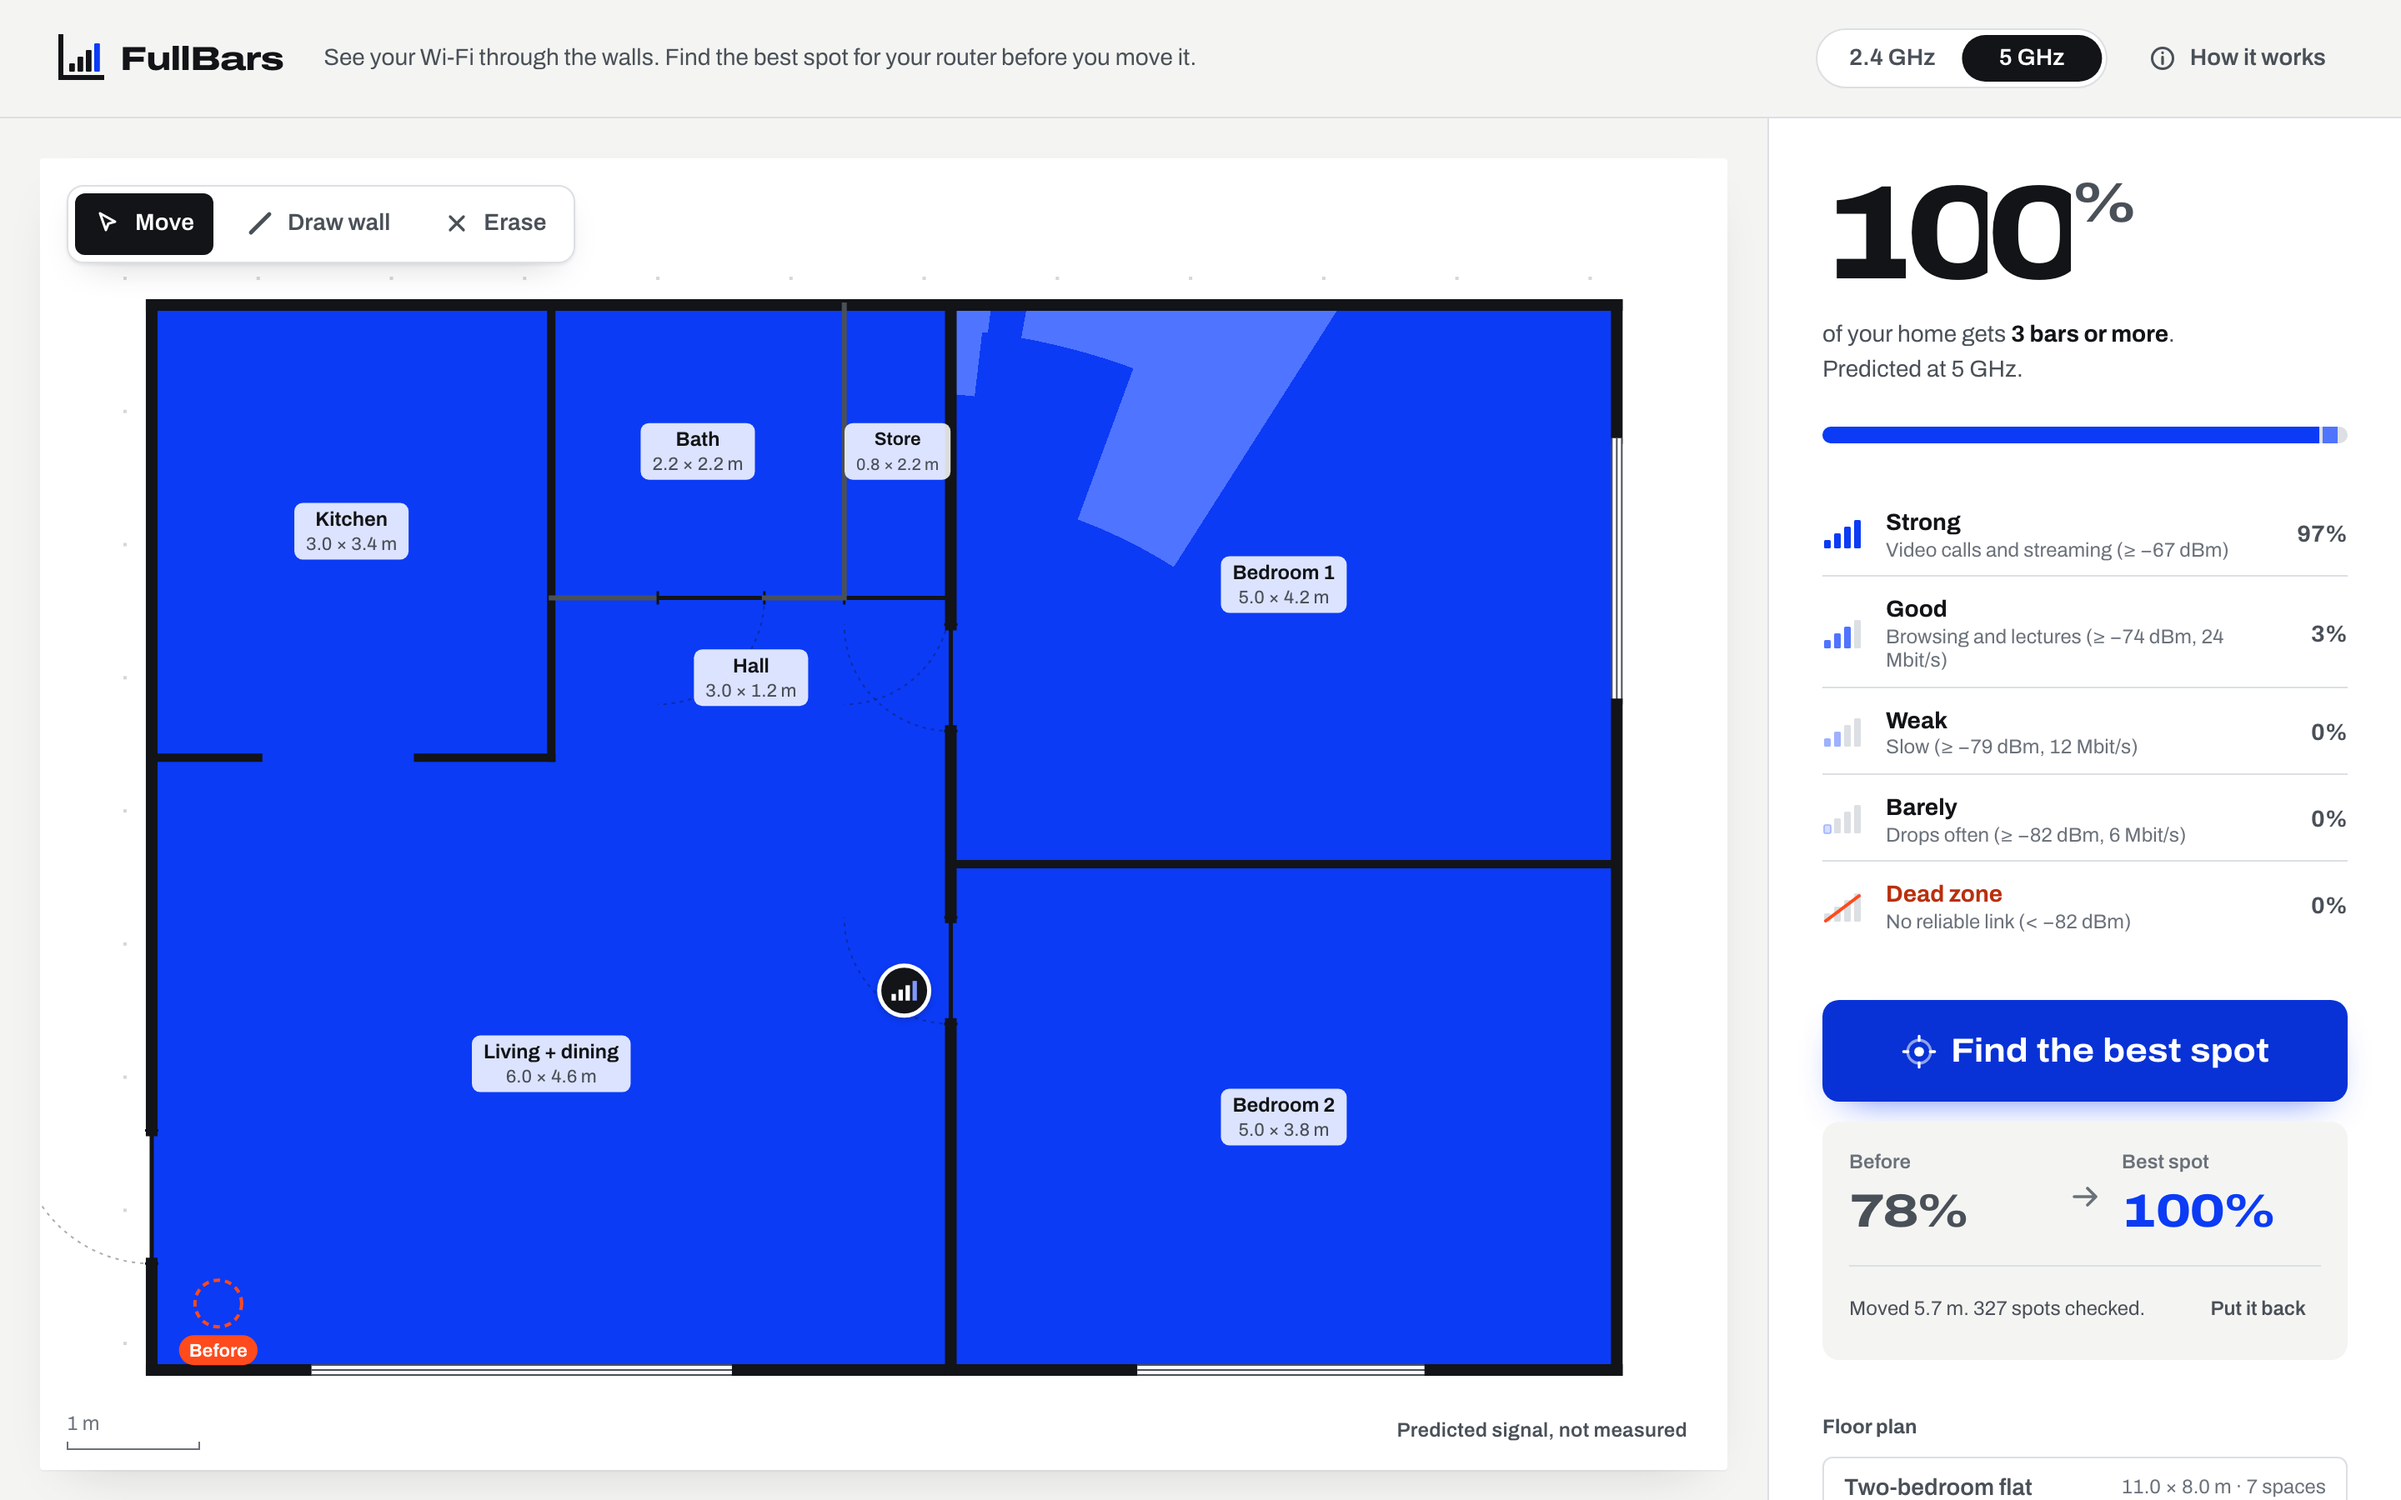
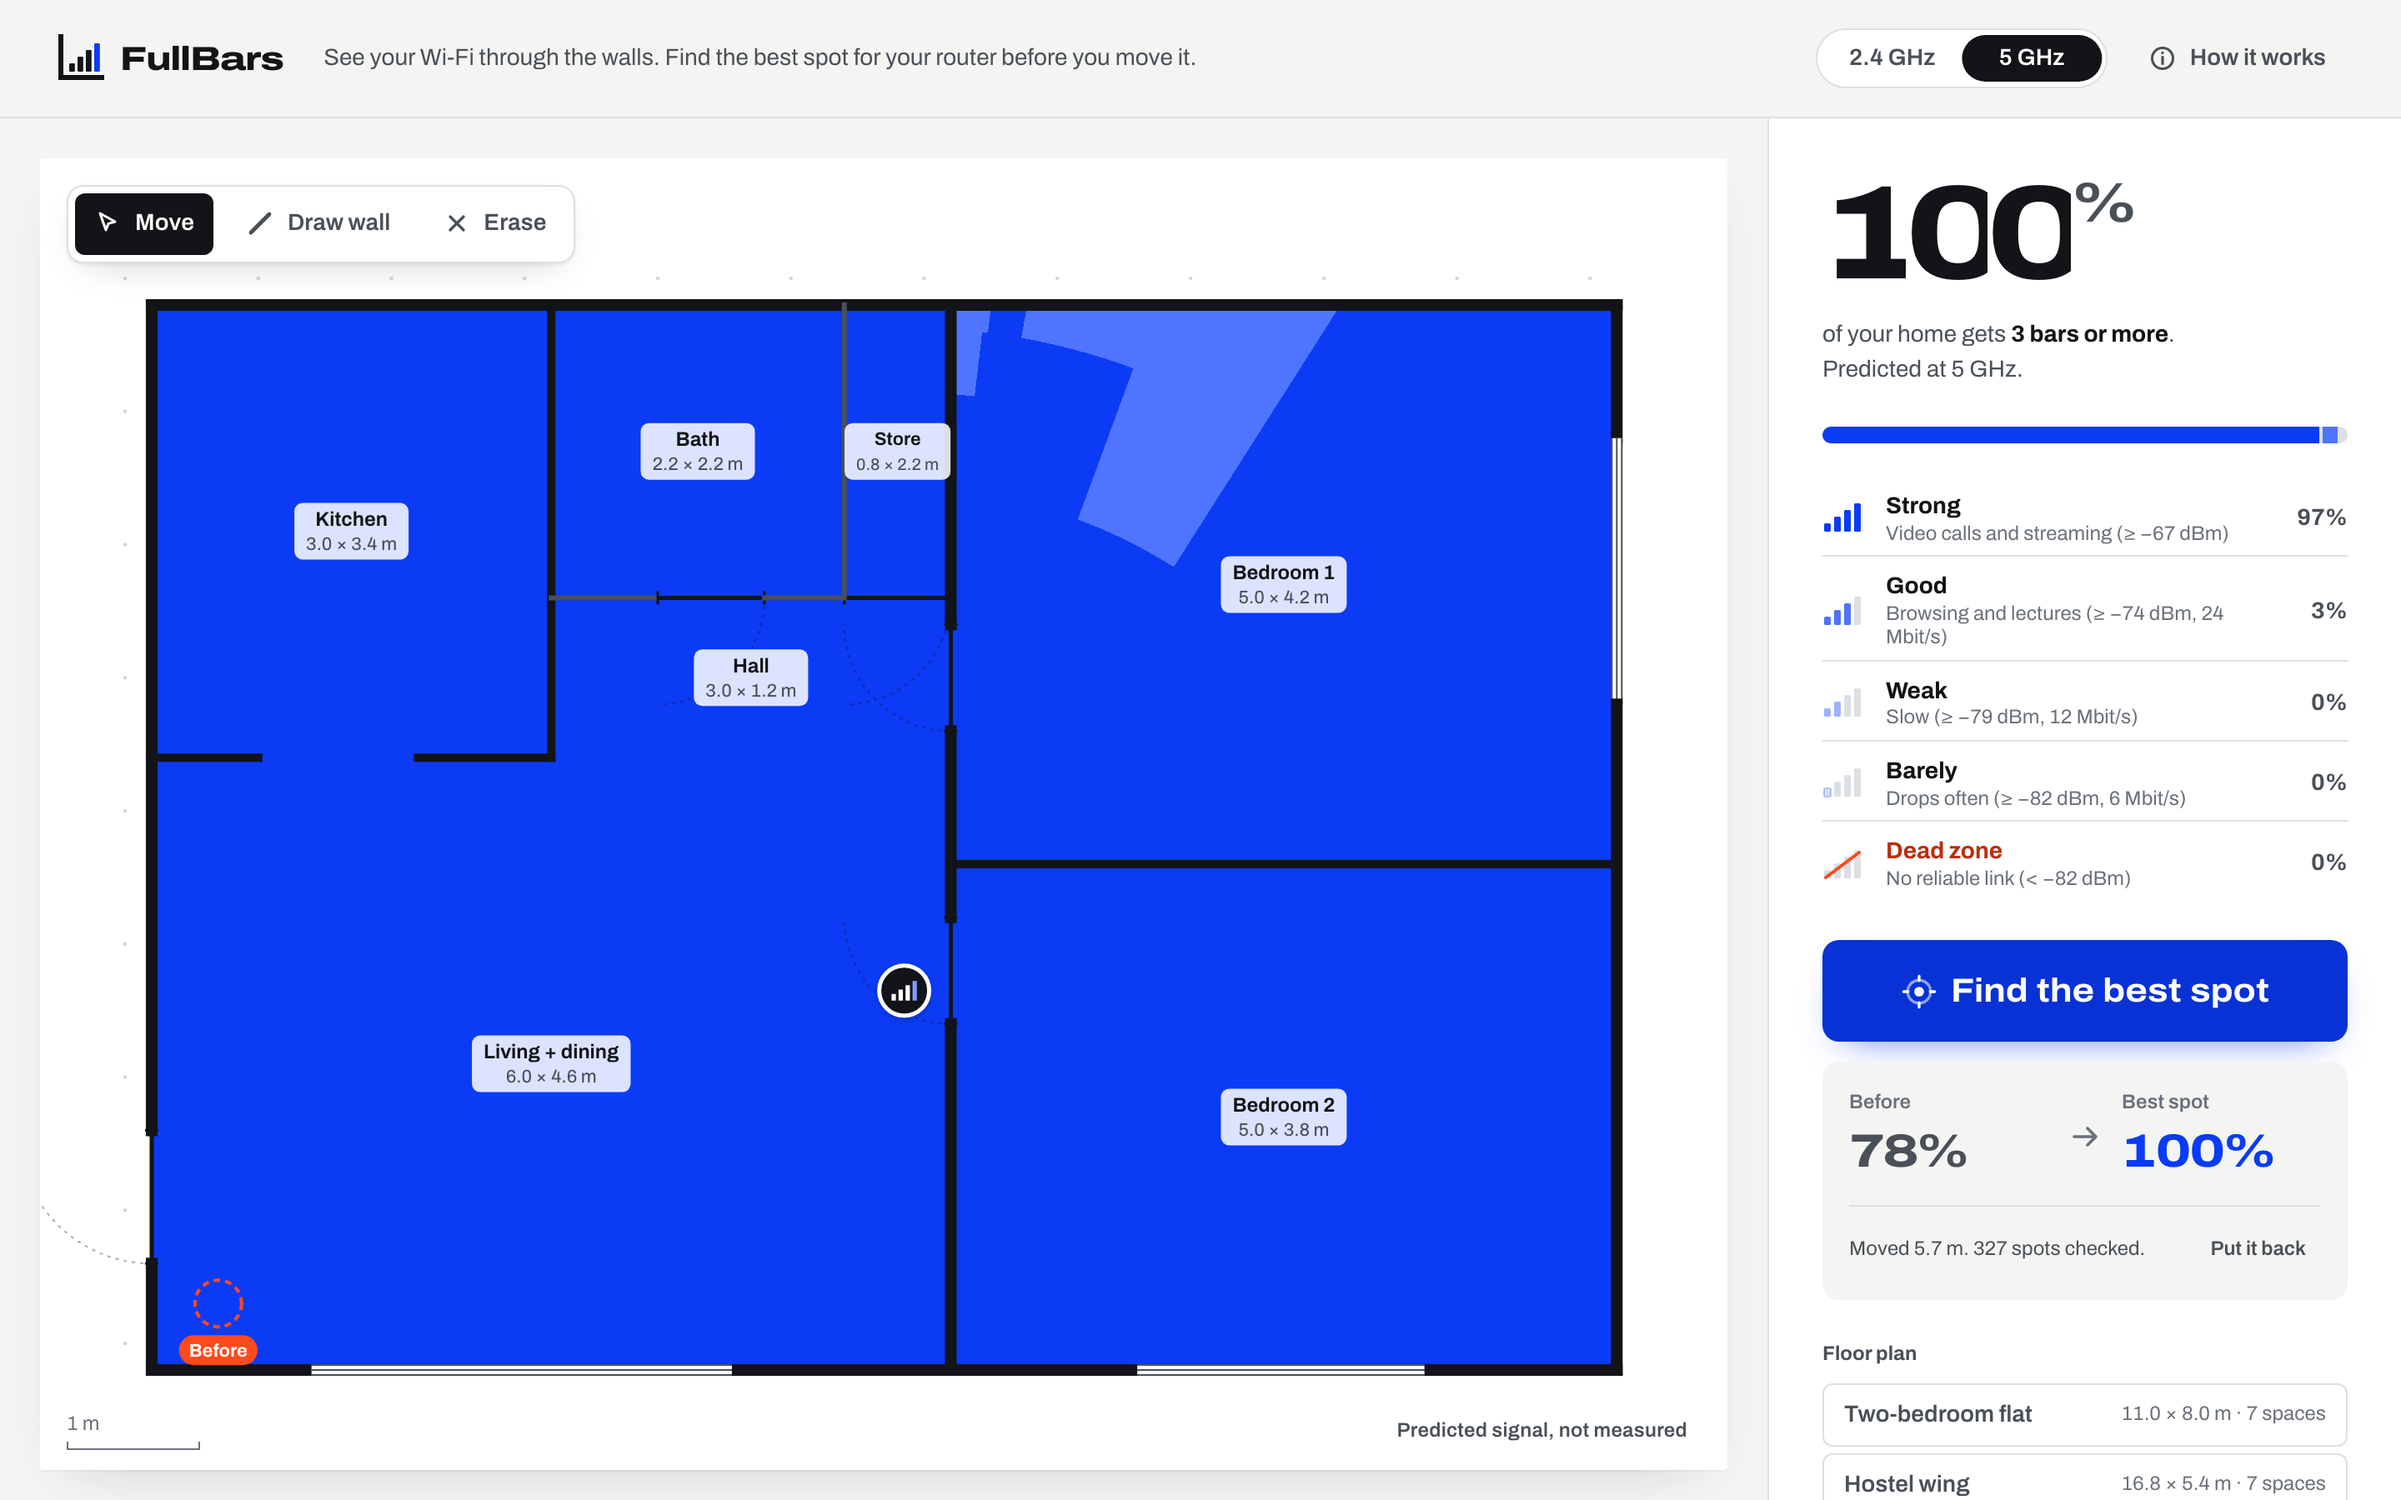
Fix 5 px horizontal overflow at phone width; refresh screenshots

diff --git a/src/styles/app.css b/src/styles/app.css
@@ -1055,6 +1055,18 @@ td input[type='number'] {
   .top-actions .btn-quiet span {
     display: none;
   }
+  .top {
+    gap: var(--s-3);
+  }
+  .top-actions {
+    gap: var(--s-1);
+  }
+  .band button {
+    padding: var(--s-1) var(--s-3);
+  }
+  .wordmark {
+    font-size: var(--t-md);
+  }
   .toolbar {
     top: var(--s-2);
     left: var(--s-2);
